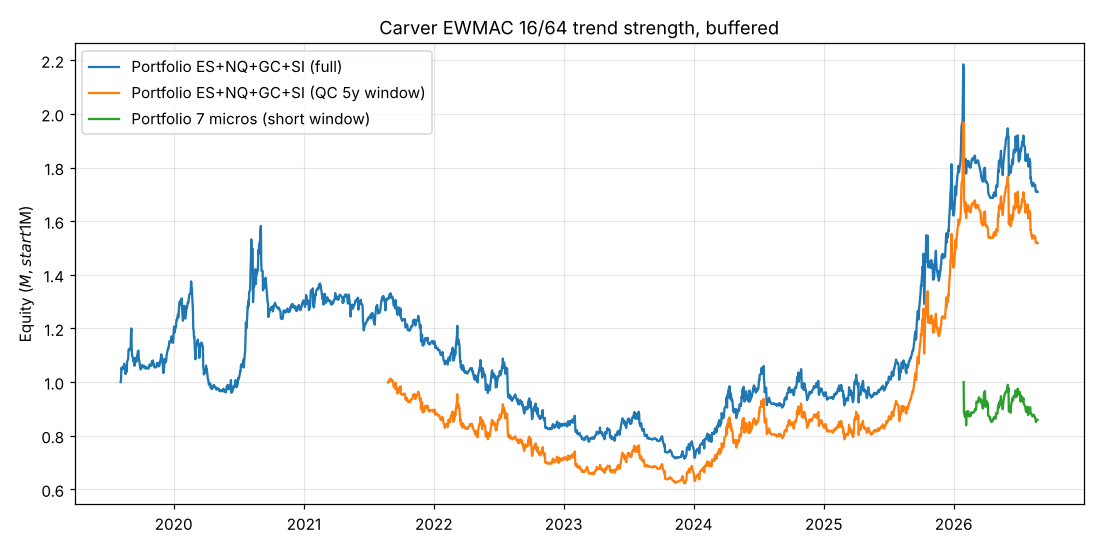
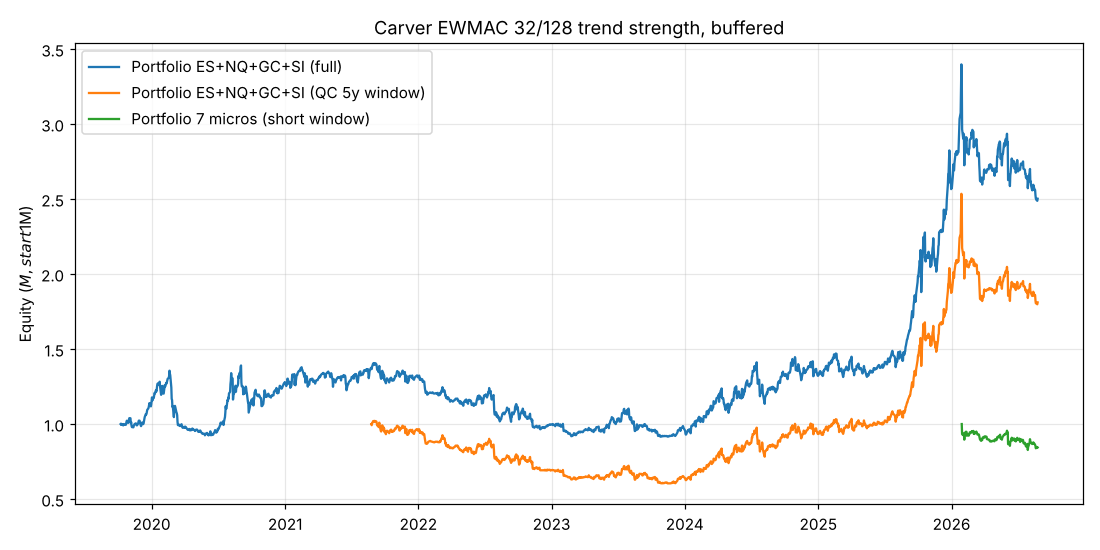
Switch Carver trend backtest default to EWMAC 32/128 and regenerate results
Claude-Session: https://claude.ai/code/session_01ATsMisDbZNeu2T5Lu6Uoun

diff --git a/carver_trend/run_all.py b/carver_trend/run_all.py
@@ -81,7 +81,7 @@ def main():
         for name, eq in curves.items():
             ax.plot(eq.index, eq / 1e6, label=name)
         ax.set_ylabel("Equity ($M, start $1M)")
-        ax.set_title("Carver EWMAC 16/64 trend strength, buffered")
+        ax.set_title(f"Carver EWMAC {p.fast_ema_span}/{p.slow_ema_span} trend strength, buffered")
         ax.grid(alpha=0.3)
         ax.legend()
         fig.tight_layout()
@@ -96,7 +96,7 @@ def main():
     header = f"""# Carver fast trend following (long/short, trend strength): local backtest
 
 This is a port of the QuantConnect algorithm `FuturesFastTrendFollowingLongAndShortWithTrendStrenthAlgorithm`
-with default parameters: EWMAC {p.fast_ema_span}/{p.slow_ema_span}, forecast scalar {p.forecast_scalar},
+with `slow_ema_span_exponent = 7` (QC default is 6) and otherwise default parameters: EWMAC {p.fast_ema_span}/{p.slow_ema_span}, forecast scalar {p.forecast_scalar},
 cap +/-{p.abs_forecast_cap:g}, sigma span {p.sigma_span}, 70/30 blend with the {p.blend_years}-year average vol,
 tau {p.target_risk}, buffer {p.buffer_scaler}, IDM from Carver Table 16, $1M starting capital (compounding).
 It runs on daily session bars built from the repo's 15-minute data. A signal at day t's close fills at

diff --git a/carver_trend/strategy.py b/carver_trend/strategy.py
@@ -3,7 +3,8 @@ With Trend Strength" algorithm (Carver, *Advanced Futures Trading Strategies*,
 strategy 7: EWMAC fast/slow with a continuous, capped forecast).
 
 Pieces mirrored from the QC algorithm's parameters:
-  slow_ema_span  = 2 ** 6 = 64, fast span = slow / 4 = 16
+  slow_ema_span  = 2 ** 7 = 128, fast span = slow / 4 = 32
+  (QC default is exponent 6 = EWMAC 16/64; 32/128 tested better here)
   abs_forecast_cap = 20, sigma_span = 32, target_risk (tau) = 0.2,
   blend_years = 3, buffer_scaler = 0.1
 
@@ -40,7 +41,7 @@ def instrument_diversification_multiplier(n: int) -> float:
 
 @dataclass(frozen=True)
 class Params:
-    slow_ema_span: int = 64
+    slow_ema_span: int = 128  # QC slow_ema_span_exponent = 7
     abs_forecast_cap: float = 20.0
     sigma_span: int = 32
     target_risk: float = 0.2

diff --git a/carver_trend/RESULTS.md b/carver_trend/RESULTS.md
@@ -1,7 +1,7 @@
 # Carver fast trend following (long/short, trend strength): local backtest
 
 This is a port of the QuantConnect algorithm `FuturesFastTrendFollowingLongAndShortWithTrendStrenthAlgorithm`
-with default parameters: EWMAC 16/64, forecast scalar 4.1,
+with `slow_ema_span_exponent = 7` (QC default is 6) and otherwise default parameters: EWMAC 32/128, forecast scalar 2.79,
 cap +/-20, sigma span 32, 70/30 blend with the 3-year average vol,
 tau 0.2, buffer 0.1, IDM from Carver Table 16, $1M starting capital (compounding).
 It runs on daily session bars built from the repo's 15-minute data. A signal at day t's close fills at
@@ -43,23 +43,23 @@ Each instrument alone (IDM 1, weight 1) and as the 4-instrument portfolio (IDM 1
 
 |                         | start      | end        |   years |   total_return_pct |   cagr_pct |   ann_vol_pct |   sharpe |   max_dd_pct |   calmar |   costs_usd |   contracts_per_year |   pct_days_long |
 |:------------------------|:-----------|:-----------|--------:|-------------------:|-----------:|--------------:|---------:|-------------:|---------:|------------:|---------------------:|----------------:|
-| ES                      | 2019-08-09 | 2026-08-25 |    7.04 |               11.2 |       1.52 |          22.5 |     0.18 |        -37.7 |     0.04 |       13989 |                   85 |            77.9 |
-| NQ                      | 2019-08-09 | 2026-08-25 |    7.04 |               56.8 |       6.59 |          23.4 |     0.38 |        -34.6 |     0.19 |        4815 |                   59 |            76.7 |
-| GC                      | 2019-08-05 | 2026-08-25 |    7.06 |              112   |      11.24 |          26.7 |     0.53 |        -55.4 |     0.2  |       13007 |                   83 |            68.7 |
-| SI                      | 2019-08-05 | 2026-08-25 |    7.06 |               14.9 |       1.99 |          24.4 |     0.2  |        -59.3 |     0.03 |       19709 |                   66 |            59.7 |
-| PORTFOLIO (ES+NQ+GC+SI) | 2019-08-05 | 2026-08-25 |    7.06 |               70.9 |       7.89 |          25.7 |     0.42 |        -54.8 |     0.14 |       21378 |                  119 |            70.8 |
+| ES                      | 2019-10-14 | 2026-08-25 |    6.86 |               51.9 |       6.28 |          23.5 |     0.37 |        -32.8 |     0.19 |       13799 |                   74 |            78.8 |
+| NQ                      | 2019-10-14 | 2026-08-25 |    6.86 |               99.2 |      10.56 |          24.5 |     0.52 |        -29.9 |     0.35 |        4656 |                   49 |            79.9 |
+| GC                      | 2019-10-08 | 2026-08-25 |    6.88 |              233.5 |      19.13 |          26.4 |     0.78 |        -49.9 |     0.38 |       12089 |                   59 |            77.3 |
+| SI                      | 2019-10-08 | 2026-08-25 |    6.88 |               14.8 |       2.03 |          20.7 |     0.2  |        -49.7 |     0.04 |       10732 |                   30 |            72.1 |
+| PORTFOLIO (ES+NQ+GC+SI) | 2019-10-08 | 2026-08-25 |    6.88 |              150.2 |      14.26 |          25.9 |     0.63 |        -34.9 |     0.41 |       18484 |                   90 |            77.1 |
 
-Portfolio gross P&L by instrument (USD): ES +22,000, NQ +118,000, GC +413,000, SI +177,000
+Portfolio gross P&L by instrument (USD): ES +133,000, NQ +227,000, GC +852,000, SI +308,000
 
 ## 2. QC's window: last 5 years (2021-08-25 -> 2026-08-25)
 
 |                         | start      | end        |   years |   total_return_pct |   cagr_pct |   ann_vol_pct |   sharpe |   max_dd_pct |   calmar |   costs_usd |   contracts_per_year |   pct_days_long |
 |:------------------------|:-----------|:-----------|--------:|-------------------:|-----------:|--------------:|---------:|-------------:|---------:|------------:|---------------------:|----------------:|
-| ES                      | 2021-08-25 | 2026-08-25 |       5 |               -9.3 |      -1.92 |          21.2 |     0.02 |        -35.9 |    -0.05 |        6673 |                   59 |            74.4 |
-| NQ                      | 2021-08-25 | 2026-08-25 |       5 |                5.5 |       1.07 |          22.3 |     0.16 |        -29.5 |     0.04 |        1953 |                   35 |            70.6 |
-| GC                      | 2021-08-25 | 2026-08-25 |       5 |              141   |      19.24 |          26.9 |     0.77 |        -32.9 |     0.59 |        8205 |                   71 |            70.9 |
-| SI                      | 2021-08-25 | 2026-08-25 |       5 |               13   |       2.48 |          23.5 |     0.22 |        -47.9 |     0.05 |       10016 |                   47 |            56.5 |
-| PORTFOLIO (ES+NQ+GC+SI) | 2021-08-25 | 2026-08-25 |       5 |               51.8 |       8.71 |          25.2 |     0.45 |        -38.5 |     0.23 |       10147 |                   78 |            68.1 |
+| ES                      | 2021-08-25 | 2026-08-25 |       5 |               11   |       2.11 |          21.9 |     0.2  |        -28.3 |     0.07 |        6388 |                   48 |            75.5 |
+| NQ                      | 2021-08-25 | 2026-08-25 |       5 |                9.2 |       1.77 |          22.6 |     0.19 |        -28.6 |     0.06 |        1752 |                   26 |            74.7 |
+| GC                      | 2021-08-25 | 2026-08-25 |       5 |              195.5 |      24.2  |          26.6 |     0.93 |        -33.6 |     0.72 |        7240 |                   48 |            77.4 |
+| SI                      | 2021-08-25 | 2026-08-25 |       5 |               22.3 |       4.11 |          20.9 |     0.29 |        -42.6 |     0.1  |        6988 |                   26 |            67.5 |
+| PORTFOLIO (ES+NQ+GC+SI) | 2021-08-25 | 2026-08-25 |       5 |               81.1 |      12.61 |          25.4 |     0.58 |        -40.8 |     0.31 |        8145 |                   53 |            73.8 |
 
 ## 3. Micro futures: adds Dow (MYM), Russell (M2K) and crude oil (MCL)
 
@@ -67,14 +67,14 @@ Only about 11 months of data, so the warm-up is 120 calendar days instead of 3 y
 
 |                      | start      | end        |   years |   total_return_pct |   cagr_pct |   ann_vol_pct |   sharpe |   max_dd_pct |   calmar |   costs_usd |   contracts_per_year |   pct_days_long |
 |:---------------------|:-----------|:-----------|--------:|-------------------:|-----------:|--------------:|---------:|-------------:|---------:|------------:|---------------------:|----------------:|
-| MES                  | 2026-01-29 | 2026-08-25 |    0.57 |               -3.7 |      -6.48 |          22.9 |    -0.17 |        -13.9 |    -0.47 |         948 |                  618 |            79.2 |
-| MNQ                  | 2026-01-29 | 2026-08-25 |    0.57 |                1.3 |       2.31 |          26.4 |     0.22 |        -16.1 |     0.14 |         250 |                  272 |            64.4 |
-| MYM                  | 2026-01-29 | 2026-08-25 |    0.57 |               -1.8 |      -3.12 |          19.9 |    -0.06 |        -11.6 |    -0.27 |         786 |                  834 |            80.5 |
-| M2K                  | 2026-01-29 | 2026-08-25 |    0.57 |               -3.9 |      -6.81 |          19.8 |    -0.25 |         -9.6 |    -0.71 |        1027 |                 1090 |            84.6 |
-| MGC                  | 2026-01-29 | 2026-08-25 |    0.57 |              -22.2 |     -35.69 |          26.8 |    -1.47 |        -22.8 |    -1.56 |         310 |                  214 |            31.8 |
-| SIL                  | 2026-01-29 | 2026-08-25 |    0.57 |              -25.3 |     -40.04 |          25.1 |    -1.86 |        -25.3 |    -1.58 |         277 |                   60 |            35.1 |
-| MCL                  | 2026-01-29 | 2026-08-25 |    0.57 |               12.1 |      22.15 |          28.7 |     0.82 |        -20.2 |     1.09 |        2057 |                 1018 |            66.9 |
-| PORTFOLIO (7 micros) | 2026-01-29 | 2026-08-25 |    0.57 |              -14.1 |     -23.42 |          30.6 |    -0.69 |        -16.1 |    -1.46 |        1534 |                 1143 |            63.2 |
+| MES                  | 2026-01-29 | 2026-08-25 |    0.57 |               -4.2 |      -7.18 |          19.2 |    -0.28 |        -11.6 |    -0.62 |         672 |                  407 |            82.6 |
+| MNQ                  | 2026-01-29 | 2026-08-25 |    0.57 |               -8   |     -13.65 |          23.8 |    -0.48 |        -18.5 |    -0.74 |         180 |                  193 |            71.1 |
+| MYM                  | 2026-01-29 | 2026-08-25 |    0.57 |               -1.2 |      -2.16 |          17   |    -0.04 |        -11.1 |    -0.2  |         552 |                  544 |            85.2 |
+| M2K                  | 2026-01-29 | 2026-08-25 |    0.57 |                0.2 |       0.32 |          18.4 |     0.11 |         -7.3 |     0.04 |         716 |                  620 |            95.3 |
+| MGC                  | 2026-01-29 | 2026-08-25 |    0.57 |              -24   |     -38.31 |          20.2 |    -2.23 |        -24.1 |    -1.59 |         232 |                  146 |            58.1 |
+| SIL                  | 2026-01-29 | 2026-08-25 |    0.57 |              -19.2 |     -31.28 |          20.2 |    -1.7  |        -19.4 |    -1.61 |         176 |                   30 |            64.2 |
+| MCL                  | 2026-01-29 | 2026-08-25 |    0.57 |                0.2 |       0.41 |          17.2 |     0.11 |        -16.2 |     0.03 |         876 |                  330 |            75.7 |
+| PORTFOLIO (7 micros) | 2026-01-29 | 2026-08-25 |    0.57 |              -15.6 |     -25.79 |          24   |    -1.08 |        -17.3 |    -1.49 |         951 |                  643 |            76.1 |
 
 ## 4. Sensitivity: `slow_ema_span_exponent` 4-7 (ES+NQ+GC+SI portfolio, full history)
 
